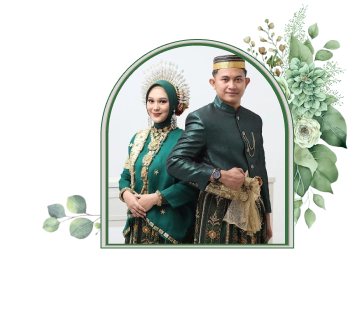
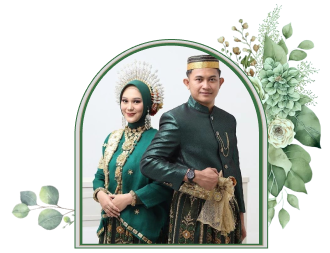
v03

diff --git a/src/component/Cover.jsx b/src/component/Cover.jsx
@@ -2,15 +2,19 @@ import bckgrnd from "../img/background.svg";
 import lammingAtas from "../img/lammingAtas.png";
 import lammingBawah from "../img/lammingBawah.png";
 import badik from "../img/badik.svg";
+import fotoPernikahan from "../img/pernikahan.png";
 import { motion } from "framer-motion";
 import { useEffect, useState } from "react";
 import dataku from "../dataku.json";
-import fotoPernikahan from "../img/pernikahan.png";
+import { useParams } from "react-router-dom";
 
 export default function Cover() {
   const [isBackgroundComplete, setIsBackgroundComplete] = useState(false);
   const [typedText, setTypedText] = useState("");
   const [index, setIndex] = useState(0);
+  const [animateOut, setAnimateOut] = useState(false); // State untuk animasi keluar
+
+  const { id } = useParams();
 
   const namaLengkap = `${dataku.namaPria} & ${dataku.namaWanita}`;
 
@@ -24,19 +28,25 @@ export default function Cover() {
     }
   }, [index, isBackgroundComplete]);
 
+  // Fungsi untuk menangani klik tombol
+  const handleButtonClick = () => {
+    setAnimateOut(true); // Memulai animasi keluar
+  };
+
   return (
-    <div className="w-screen h-screen xl:flex justify-center overflow-hidden">
+    <motion.div
+      className="w-screen h-screen xl:flex justify-center overflow-hidden"
+      initial={{ y: 0 }} // Posisi awal halaman
+      animate={{ y: animateOut ? "-100%" : 0 }} // Bergerak ke atas jika animateOut true
+      transition={{ duration: 1.5 }} // Durasi animasi
+    >
       <div
         className="w-full h-full xl:w-[390px]"
-        style={{
-          backgroundImage: `url(${bckgrnd})`,
-        }}
+        style={{ backgroundImage: `url(${bckgrnd})` }}
       >
         <motion.div
-          className="h-[80%] w-full bg-repeat-x sm:h-[88%] xl:h-[80%] sm:bg-repeat-x bg-[50%,0%]"
-          style={{
-            backgroundImage: `url(${lammingAtas})`,
-          }}
+          className="h-[85%] w-full bg-repeat-x sm:h-[88%] xl:h-[80%] sm:bg-repeat-x bg-[50%,0%]"
+          style={{ backgroundImage: `url(${lammingAtas})` }}
           initial={{ y: "-100vh" }} // Start from off-screen (top)
           animate={{ y: 0 }} // Move to original position
           transition={{ type: "spring", stiffness: 50, delay: 0.2 }} // Spring effect with delay
@@ -61,22 +71,22 @@ export default function Cover() {
               )}
               {isBackgroundComplete && (
                 <motion.div
-                  className="flex justify-center pt-2 sm:pt-6 xl:pt-3 sm:text-[32px] text-[#376D41] xl:text-sm "
+                  className="flex justify-center pt-2 sm:pt-6 xl:pt-3 sm:text-[32px] text-[#376D41] xl:text-sm"
                   initial={{ opacity: 0 }}
                   animate={{ opacity: 1 }}
-                  transition={{ duration: 1, delay: 1 }} // Delay sinkron dengan durasi animasi badik
+                  transition={{ duration: 1, delay: 1 }}
                 >
                   <h1 className="font-sarlotte">THE WEDDING OF</h1>
                 </motion.div>
               )}
-              <div className="flex justify-center text-3xl  font-carmitta text-[#376D41] xl:text-[35px] xl:pt-2 sm:text-[55px] sm:pt-3">
+              <div className="flex justify-center text-3xl font-carmitta text-[#376D41] xl:text-[35px] xl:pt-2 sm:text-[55px] sm:pt-3">
                 <h1>{typedText}</h1>
               </div>
               {isBackgroundComplete && (
                 <motion.div
                   className="flex justify-center"
-                  initial={{ x: "100vw" }} // Mulai dari luar layar (kanan)
-                  animate={{ x: 0 }} // Bergerak ke posisi semula
+                  initial={{ x: "100vw" }}
+                  animate={{ x: 0 }}
                   transition={{
                     type: "spring",
                     stiffness: 50,
@@ -87,23 +97,88 @@ export default function Cover() {
                   <img
                     src={fotoPernikahan}
                     alt="Foto Pernikahan"
-                    className="w-[250px] sm:w-[500px] mr-8 sm:mr-10 sm:-mt-5 -mt-5"
+                    className="w-[300px] sm:w-[500px] xl:w-[300px] mr-2 sm:mr-5 sm:-mt-5 -mt-5 "
                   />
                 </motion.div>
               )}
+              {isBackgroundComplete && (
+                <motion.div
+                  className="flex justify-center font-sarlotte text-[#376D41] xl:text-sm text-sm mt-2 sm:text-[24px]"
+                  initial={{ opacity: 0 }}
+                  animate={{ opacity: 1 }}
+                  transition={{ duration: 1, delay: 1 }}
+                >
+                  <h1>32 Desember 2024</h1>
+                </motion.div>
+              )}
+              {isBackgroundComplete && (
+                <motion.div
+                  className="flex justify-center font-sarlotte sm:mt-2 -mt-1 xl:text-sm xl:mt-0 text-[#376D41] text-sm sm:text-[24px]"
+                  initial={{ opacity: 0 }}
+                  animate={{ opacity: 1 }}
+                  transition={{ duration: 1, delay: 1 }}
+                >
+                  <h1>Kpd Bpk/Ibu/Saudara/i</h1>
+                </motion.div>
+              )}
+              {isBackgroundComplete && (
+                <motion.div
+                  className="flex justify-center font-myflora sm:mt-8 xl:text-sm xl:mt-0 text-[#376D41] text-2xl sm:text-[50px]"
+                  initial={{ opacity: 0 }}
+                  animate={{ opacity: 1 }}
+                  transition={{ duration: 1, delay: 1 }}
+                >
+                  <h1 className="capitalize">{id}</h1>
+                </motion.div>
+              )}
+              {isBackgroundComplete && (
+                <motion.div
+                  className="flex justify-center font-sarlotte sm:mt-8 xl:text-[10px] xl:text-xs xl:mt-0 text-[#376D41] text-[10px] sm:text-xl"
+                  initial={{ opacity: 0 }}
+                  animate={{ opacity: 1 }}
+                  transition={{ duration: 1, delay: 1 }}
+                >
+                  <h1 className="capitaliz w-[80%] text-center">
+                    Dengan Menjunjung Rasa Hormat, Kami mengundang Anda Untuk
+                    Hadir di Acara Pernikahan Kami
+                  </h1>
+                </motion.div>
+              )}
+              <div className="flex justify-center">
+                {isBackgroundComplete && (
+                  <motion.button
+                    type="button"
+                    className="px-3 sm:px-8 py-1 mt-2 text-xs font-medium text-center inline-flex items-center text-white bg-gradient-to-r from-[#386E42] to-[#3D4827] rounded-lg hover:bg-blue-800 focus:ring-4 focus:outline-none focus:ring-blue-300 dark:bg-blue-600 dark:hover:bg-blue-700 dark:focus:ring-blue-800"
+                    initial={{ opacity: 0 }}
+                    animate={{ opacity: 1 }}
+                    transition={{ duration: 1 }}
+                    onClick={handleButtonClick} // Menangani klik tombol
+                  >
+                    <svg
+                      className="w-3 h-3 text-white me-2"
+                      aria-hidden="true"
+                      xmlns="http://www.w3.org/2000/svg"
+                      fill="currentColor"
+                      viewBox="0 0 20 16"
+                    >
+                      <path d="m10.036 8.278 9.258-7.79A1.979 1.979 0 0 0 18 0H2A1.987 1.987 0 0 0 .641.541l9.395 7.737Z" />
+                      <path d="M11.241 9.817c-.36.275-.801.425-1.255.427-.428 0-.845-.138-1.187-.395L0 2.6V14a2 2 0 0 0 2 2h16a2 2 0 0 0 2-2V2.5l-8.759 7.317Z" />
+                    </svg>
+                    Buka Undangan
+                  </motion.button>
+                )}
+              </div>
             </div>
           </div>
         </motion.div>
         <motion.div
-          className="h-[20%] bg-repeat-x sm:bg-[50%,0%] sm:h-[12%] xl:h-[20%] xl:bg-no-repeat xl:bg-cover"
-          style={{
-            backgroundImage: `url(${lammingBawah})`,
-          }}
+          className="h-[15%] bg-repeat-x sm:bg-[50%,0%] sm:h-[12%] xl:h-[20%] xl:bg-no-repeat xl:bg-cover"
+          style={{ backgroundImage: `url(${lammingBawah})` }}
           initial={{ y: "100%" }}
           animate={{ y: "0%" }}
           transition={{ duration: 1.5 }}
         ></motion.div>
       </div>
-    </div>
+    </motion.div>
   );
 }

diff --git a/src/index.css b/src/index.css
@@ -17,3 +17,8 @@
   font-family: "carmitta";
   src: url("./font/Carmitta.ttf");
 }
+
+@font-face {
+  font-family: "myflora";
+  src: url("./font/Myflora-x9rLHZof.otf");
+}

diff --git a/tailwind.config.js b/tailwind.config.js
@@ -6,6 +6,7 @@ export default {
       fontFamily: {
         sarlotte: "sarlotte",
         carmitta: "carmitta",
+        myflora: "myflora",
       },
     },
   },
